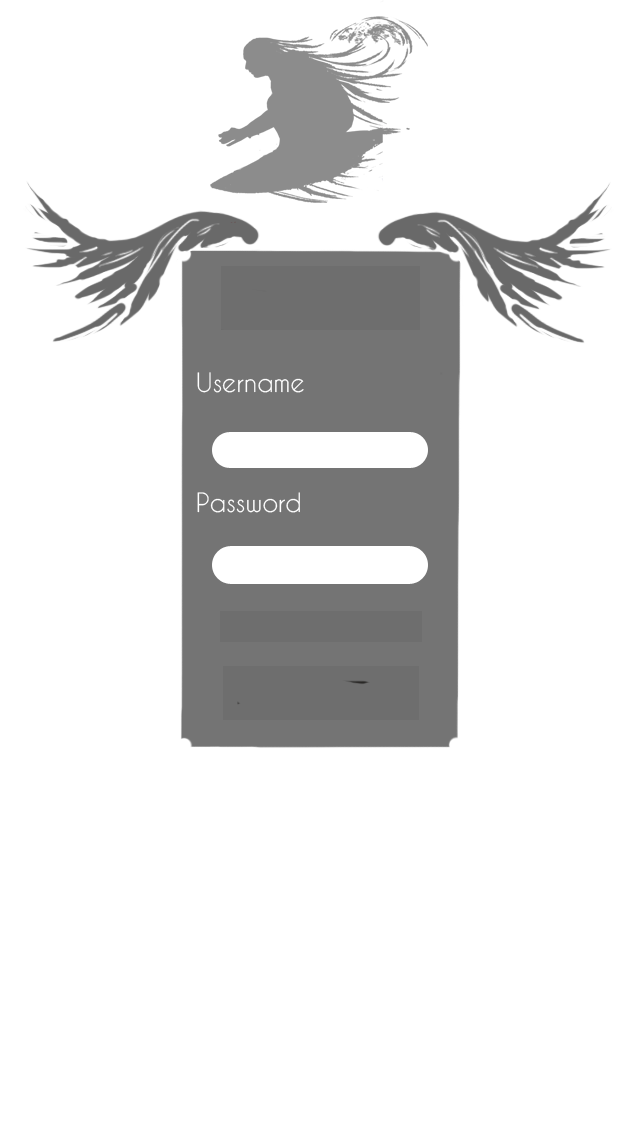
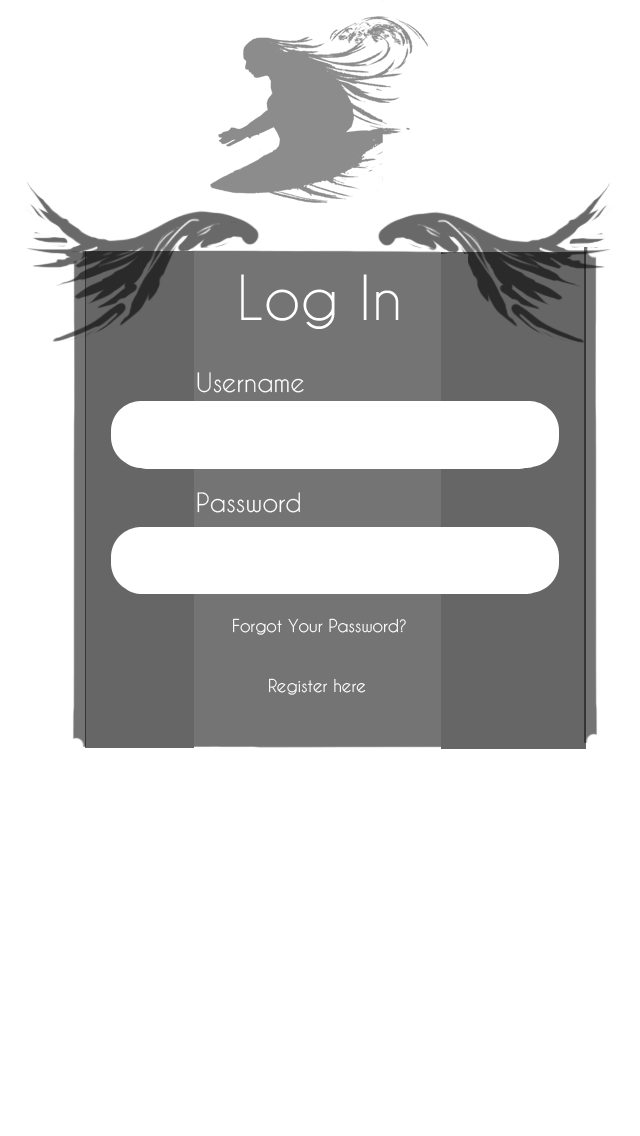
fixed bugs in php, started details page, smoothed transitions

diff --git a/main.htm b/main.htm
@@ -51,7 +51,6 @@ background-size:100% 100%;
 					
 					var data=JSON.parse(xmlhttp.responseText);
 					if (data == true) {
-			
 						$("#t1").click(); // simulate link click 
 					}
 					else {
@@ -73,13 +72,13 @@ background-size:100% 100%;
 			<td><a href="#tab3" data-transition="flow" id="chat" ><img src="http://imgur.com/cMRXS8B.png" height="40%" width="100%" onMouseOver="this.src='http://i.imgur.com/TkJ1Xzc.png'" onMouseOut=		"this.src='http://imgur.com/cMRXS8B.png'"></a></td>
 		</tr>
 	</table>
-	<a id="t1" href="#tab1"  data-transition="pop" ></a>
+	<a id="t1" href="#setpref"  data-transition="pop" ></a>
 	<div id="txtHint"></div>
 	<form name="bob" id="bob" action="JavaScript:credCheck();" style="z-index:4;" method="post"><br><br><center>
-		<input  style="width:75%;z-index:7;" type="text" name="user" id="user" placeholder="Username" value=""/><br><br>
-		<input style="z-index:7;width:75%;" type="password" name="pass" id="pass" placeholder="Password" value=""/><br><br>
-		<button name="bob" id="bob" style="width:50%;z-index:4; padding-top:10px; padding-bottom:10px;"  class="ui-btn ui-corner-all" type="submit">Login</button>
-		<a href="#newuser"data-role="button" data-rel="page" data-transition="pop">New User </a>
+		<input  style="width:70%;position:absolute;top:35.25%;left:17%;height:4.25%;z-index:7;" type="text" name="user" id="user" placeholder="Username" value=""/><br><br>
+		<input style="width:70%;position:absolute;top:46%;height:4.25%;left:17%;;z-index:7;" type="password" name="pass" id="pass" placeholder="Password" value=""/><br><br>
+		<button style="top:60%;height:4.2%;left:33%" name="bob" id="bob" style="width:50%;z-index:4; padding-top:10px; padding-bottom:10px;"  class="ui-btn ui-corner-all" type="submit">Login</button>
+		<a style="top:75%;left:33%" href="#newuser"data-role="button" data-rel="page" data-transition="pop">New User </a>
 		
 	</form>
 	<script>
@@ -92,7 +91,11 @@ background-size:100% 100%;
 			z-index:100; !important;
 		}
 		.ui-btn{
-			width: 300px !important;
+			width: 30% !important;
+			top:57%;
+		
+			left: 33%;
+			position: absolute;
 		}
 	</style>
 
@@ -100,7 +103,7 @@ background-size:100% 100%;
 	
  
 		
-		<p><a href="#popup"data-role="button" data-rel="dialog" data-transition="pop">Show page "popup" (as a dialog)</a></p>
+		
 	</div><!-- /content -->
 	
 	<div data-role="footer" data-theme="d">
@@ -231,9 +234,9 @@ background-size:100% 100%;
 	
 <table style="z-index:500;position:fixed; bottom:0;right:0;" border="0"  cellspacing="0" cellpadding="0">
 		<tr>
-			<td><a data-transition="flow" href="#tab1" href="http:/www.google.com" id="email" ><img src="http://imgur.com/JOiuxC4.png" height="40%" width="100%" onMouseOver="this.src='http://i.imgur.com/xedSdTz.png'" onMouseOut="this.src='http://imgur.com/JOiuxC4.png'"></a></td>
+			<td><a data-transition="flow" href="#tab1" id="email" ><img src="RecommendationButton.png" height="40%" width="100%" onMouseOver="this.src='RecommendationButton.png'" onMouseOut="this.src='RecommendationButton.png'"></a></td>
 		
-			<td><a href="#one" id="skull"><img src="http://i.imgur.com/FDLG9I3.png" height="40%" width="100%" onMouseOver="this.src='http://i.imgur.com/FDLG9I3.png'" onMouseOut="this.src='http://i.imgur.com/FDLG9I3.png'"></a></td>
+			<td><a href="#one" id="skull"><img src="DiscussionButtonUnselected.png" height="40%" width="100%" onMouseOver="this.src='http://i.imgur.com/FDLG9I3.png'" onMouseOut="this.src='DiscussionButtonUnselected.png'"></a></td>
 		
 			<td><a href="#tab3" data-transition="flow" id="chat" ><img src="http://imgur.com/cMRXS8B.png" height="40%" width="100%" onMouseOver="this.src='http://i.imgur.com/TkJ1Xzc.png'" onMouseOut=		"this.src='http://imgur.com/cMRXS8B.png'"></a></td>
 		</tr>
@@ -264,7 +267,7 @@ background-size:100% 100%;
 						image = "CloudySunnyButton.png";
 					if(data.beaches[0].weather == "Slightly Cloudy")
 						image = "CloudySunnyButton.png";
-					document.querySelector('#weather').innerHTML = "<img align='center' style='width:50%;left:25%;position:absolute; top:20%;' src='" + image + "'>";
+					document.querySelector('#weather').innerHTML = "<img title='HI' href='#tab3' align='center' style='width:50%;left:25%;position:absolute; top:20%;' src='" + image + "'>";
 					document.querySelector('#names').innerHTML = "<h1>"+data.beaches[0].name+"</h1>";
 					document.querySelector('#temp').innerHTML = "<h1>"+data.beaches[0].temperature+"&#176; F</h1>";
 					getLocation(data.beaches[0].latitude, data.beaches[0].longitude, 0);
@@ -282,7 +285,7 @@ background-size:100% 100%;
 						image = "CloudySunnyButton.png";
 					if(data.beaches[1].weather == "Slightly Cloudy")
 						image = "CloudySunnyButton.png";
-					document.querySelector('#weather1').innerHTML = "<img align='center' style='width:50%;left:25%;position:absolute; top:20%;' src='" + image + "'>";
+					document.querySelector('#weather1').innerHTML = "<img href='#tab3' align='center' style='width:50%;left:25%;position:absolute; top:20%;' src='" + image + "'>";
 					document.querySelector('#names1').innerHTML = "<h1>"+data.beaches[1].name+"</h1>";
 					document.querySelector('#temp1').innerHTML = "<h1>"+data.beaches[1].temperature+"&#176; F</h1>";
 					getLocation(data.beaches[1].latitude, data.beaches[1].longitude, 1);
@@ -326,7 +329,7 @@ function showPosition(position)
 		document.querySelector('#distance1').innerHTML = "<h2>"+findis+" Km</h2>";
   }
 	</script>
-
+		<a href="#tab3" style="text-decoration:none;">
 		<div id="weather" style="width:100%;position:absolute; top:53%;">
 		</div>
 		<div id="distance" style="position:absolute; top:59%; left:53%;">
@@ -335,7 +338,8 @@ function showPosition(position)
 		</div>
 		<div style="position:absolute;top:51.5%;left:53%;" id="temp">
 		</div>
-		
+		</a>
+		<a href="#tab3" style="text-decoration:none;">
 		<div id="weather1" style="width:100%;position:absolute; top:33%;">
 		</div>
 		<div id="distance1" style="position:absolute; top:39%; left:53%;">
@@ -344,25 +348,96 @@ function showPosition(position)
 		</div>
 		<div style="position:absolute;top:31.5%;left:53%;" id="temp1">
 		</div>
+		</a>
 </div><!-- /page two -->
-
+<div data-role="page" id="tab3">
+<table style="z-index:500;position:fixed; bottom:0;right:0;" border="0"  cellspacing="0" cellpadding="0">
+	<tr>
+		<td><a data-transition="flow" href="#tab1" href="http:/www.google.com" id="email" ><img src="http://imgur.com/JOiuxC4.png" height="40%" width="100%" onMouseOver="this.src='http://i.imgur.com/xedSdTz.png'" onMouseOut="this.src='http://imgur.com/JOiuxC4.png'"></a></td>
+		<td><a href="#one" id="skull"><img src="DiscussionButtonUnselected.png" height="40%" width="100%" onMouseOver="this.src='http://i.imgur.com/FDLG9I3.png'" onMouseOut="this.src='DiscussionButtonUnselected.png'"></a></td>
+		<td><a href="#tab3" data-transition="flow" id="chat" ><img src="WeatherButton.png" height="40%" width="100%" onMouseOver="this.src='WeatherButton.png'" onMouseOut=		"this.src='WeatherButton.png'"></a></td>
+	</tr>
+</table>
+  <div data-role="header">
+   
+  <h1>Details</h1>
+  </div>
+ </div>
 
 <!-- Start of third page: #popup -->
-<div data-role="page" id="tab3">
+<div data-role="page" id="setpref">
 
-	<div data-role="header" data-theme="a">
-		<h1>Dialog</h1>
-	</div><!-- /header -->
+  <div data-role="header">
+   
+  <h1>Surfing Preferences</h1>
+  </div>
+<script>
+	function changeData()  {
+		var x1 = document.getElementById('x1').value;
+		var x2 = document.getElementById('x2').value;
+		var x3 = document.getElementById('x3').value;
+		var x4 = document.getElementById('x4').value;
+		var x5 = document.getElementById('x5').value;
+		var xmlhttp=new XMLHttpRequest();
+		xmlhttp.onreadystatechange=function() {
+			if (xmlhttp.readyState==4 && xmlhttp.status==200) {
+				var data=JSON.parse(xmlhttp.responseText);
+				
+			}
+			$("#t4").click();
+		}
+		xmlhttp.open("GET","changeData.php?x1=" + x1 + "&&x2=" + x2 +"&&x3=" + x3+"&&x4=" + x4+"&&x5=" + x5 ,true);
+		xmlhttp.send();
+	}
+	</script>
+	<a id="t4" href="#tab1"  data-transition="pop" ></a>
 
-	<div data-role="content" data-theme="d">	
-		<h2>Popup</h2>
-		<p>I have an id of "popup" on my page container and only look like a dialog because the link to me had a <code>data-rel="dialog"</code> attribute which gives me this inset look and a <code>data-transition="pop"</code> attribute to change the transition to pop. Without this, I'd be styled as a normal page.</p>		
-		<p><a href="#one" data-rel="back" data-role="button" data-inline="true" data-icon="back">Back to page "one"</a></p>	
-	</div><!-- /content -->
-	
-	<div data-role="footer">
-		<h4>Page Footer</h4>
-	</div><!-- /footer -->
+<style>
+		input {
+			-moz-border-radius: 15px;
+			border-radius: 15px;
+			border:solid 1px black;
+			padding:5px;
+			height:4%;
+			width:36%;
+	}
+	#newuser
+{
+background: #000;
+background-image: url(hot.png);
+background-size:100% 100%; 
+}
+	</style>
+<div data-role='main' class='ui-content'>
+    <form id="hob" name="hob" method='post' action='JavaScript:changeData();'>
+      <label for='points'>X1:</label>
+      <input type='range' name='x1' id='x1' value='50' min='0' max='100'><br><br>
+	   <label for='points'>X2:</label>
+      <input type='range' name='x2' id='x2' value='50' min='0' max='100'><br><br>
+	  <label for='points'>X3:</label>
+      <input type='range' name='x3' id='x3' value='50' min='0' max='100'><br><br>
+	  <label for='points'>X4:</label>
+      <input type='range' name='x4' id='x4' value='50' min='0' max='100'><br><br>
+	  <label for='points'>X5:</label>
+      <input type='range' name='x5' id='x5'value='50' min='0' max='100'><br><br>
+      <input type='submit'class="ui-btn ui-corner-all"  value='Update Prefences'>
+    </form>
+  </div>
+  <table style="z-index:500;position:fixed; bottom:0;right:0;" border="0"  cellspacing="0" cellpadding="0">
+		<tr>
+			<td><a data-transition="flow" href="#tab1" href="http:/www.google.com" id="email" ><img src="http://imgur.com/JOiuxC4.png" height="40%" width="100%" onMouseOver="this.src='http://i.imgur.com/xedSdTz.png'" onMouseOut="this.src='http://imgur.com/JOiuxC4.png'"></a></td>
+		
+			<td><a href="#one" id="skull"><img src="http://i.imgur.com/FDLG9I3.png" height="40%" width="100%" onMouseOver="this.src='http://i.imgur.com/FDLG9I3.png'" onMouseOut="this.src='http://i.imgur.com/FDLG9I3.png'"></a></td>
+		
+			<td><a href="#tab3" data-transition="flow" id="chat" ><img src="http://imgur.com/cMRXS8B.png" height="40%" width="100%" onMouseOver="this.src='http://i.imgur.com/TkJ1Xzc.png'" onMouseOut=		"this.src='http://imgur.com/cMRXS8B.png'"></a></td>
+		</tr>
+	</table>
+</div>
+
+		
+
+  
+
 </div><!-- /page popup -->
 
 </body>

diff --git a/changeData.php b/changeData.php
@@ -1,0 +1,21 @@
+<?php 
+	ob_start(); 
+	include('config.php');
+	session_start();
+	$islog; 
+	if (isset($_GET['x1']))
+		$x1 = $_GET['x1'];
+	if (isset($_GET['x2']))
+		$x2 = $_GET['x2'];
+	if (isset($_GET['x3']))
+		$x3 = $_GET['x3'];
+	if (isset($_GET['x4']))
+		$x4 = $_GET['x4'];
+	if (isset($_GET['x5']))
+		$x5 = $_GET['x5'];
+	$email = $_SESSION['User'];
+	mysql_query("UPDATE user SET Pref1 = '$x1', Pref2 ='$x2', Pref3 = '$x3', Pref4 = '$x4', Pref5 = '$x5' WHERE Email = '$email'");
+		
+	
+?>
+	

diff --git a/getData.php b/getData.php
@@ -1,0 +1,12 @@
+<?php 
+	ob_start(); 
+	include('config.php');
+	session_start();
+	$islog; 
+	$email = $_SESSION['User'];
+	$query = "SELECT * FROM user WHERE Email='$email'";
+	$result = mysql_query($query);
+	$row  = mysql_fetch_array($result);
+	echo(json_encode($row));
+?>
+	

diff --git a/checklogin.php b/checklogin.php
@@ -13,6 +13,7 @@
 	$row  = mysql_fetch_array($result);
 	if(is_array($row)) {
 		$islog = true;
+		$_SESSION['User'] = $email;
 	} 
 	else {
 		$islog = false;
